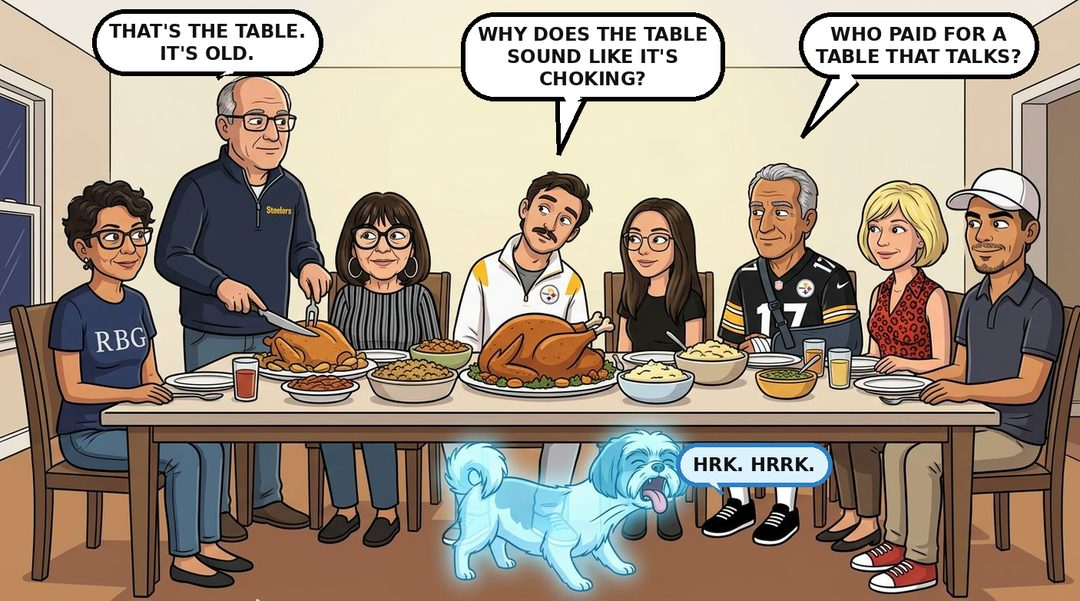
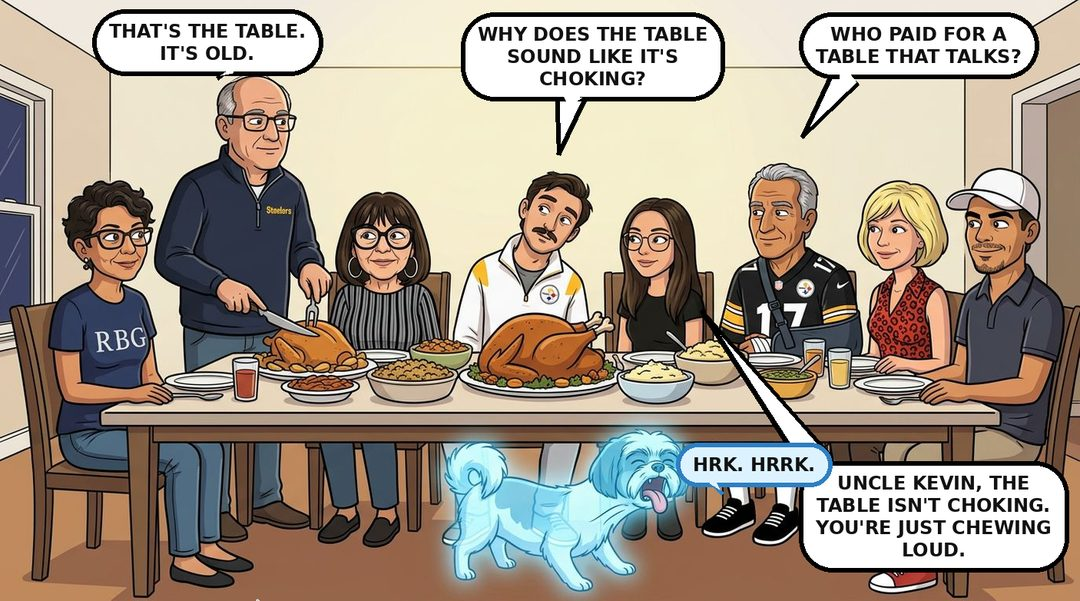
Issue 21: add Ava, Aidan and Sito lines
Claude-Session: https://claude.ai/code/session_0112ymJVkt3dxbHELZTYGHoC

Changed region(s): [[0.7333, 0.7488, 1.0, 0.9584], [0.6722, 0.5691, 0.7639, 0.7488], [0.6417, 0.5092, 0.6722, 0.5691]]

diff --git a/index.html b/index.html
@@ -289,12 +289,12 @@ const I=[
  {n:21,t:"The Sock Under the Table",s:"Thanksgiving in Hilton Head. Uncle Tom cooks, Dad reads the receipt, and two ghost dogs are up to something.",sk:[
   ["n21","6 a.m., Hilton Head. Dad finds the cranberry sauce on the receipt. Mom drinks her coffee. Uncle Tom has the bird."],
   ["n21b","Uncle Tom shushes somebody nobody else can see. Ava is down one sock. Ghost Mistletoe is up one."],
-  ["n21c","Dinner. The table starts choking. Aidan wants answers. Dad wants to know who paid for it."],
+  ["n21c","Dinner. The table starts choking. Aidan wants answers. Dad wants to know who paid for it. Ava blames Uncle Kevin's chewing."],
   ["n21d","Ghost Gido pulls up a chair. Ghost Ralphie still hasn't forgiven him. Sito tells him to wait his turn. Aidan just feels a draft."],
-  ["n21e","Five socks under the table. Uncle Tom is talking to the floor again. Dad doesn't want to hear about it."],
+  ["n21e","Five socks under the table. Ava's been gaslit by a dead dog. Aidan could have insured them. Dad doesn't want to hear about it."],
   ["n21f","Flashback to the old house. Dad carves, Mom beams, and three little Hassans can't sit still."],
   ["n21g","Uncle Tom raises a glass to Dad and the family he built. Dad tears up. Aidan tries to price the love."],
-  ["n21h","And then Dad remembers the grocery bill. Mom says sit down. Spencer has a turkey on his head. Ava's sock is still missing."]]}
+  ["n21h","And then Dad remembers the grocery bill. Sito reminds everyone what can't go back in. Mom says sit down. Spencer has a turkey on his head. Ava's sock is still missing."]]}
 ];
 const CAST=[
  ["Dad","Steelers jersey, one working arm, Johnnie Walker in the other. Yells \"this is bullshit\" at the TV, the contractors and the curb. Thinks Zan spends too much. Just bought a movie theater."],

diff --git a/sw.js b/sw.js
@@ -1,4 +1,4 @@
-const V="hc-v3";
+const V="hc-v4";
 self.addEventListener("install",e=>{self.skipWaiting();e.waitUntil(caches.open(V).then(c=>c.addAll(["./","icons/icon-192.png"])))});
 self.addEventListener("activate",e=>{e.waitUntil(caches.keys().then(k=>Promise.all(k.filter(x=>x!==V).map(x=>caches.delete(x)))).then(()=>self.clients.claim()))});
 self.addEventListener("fetch",e=>{
